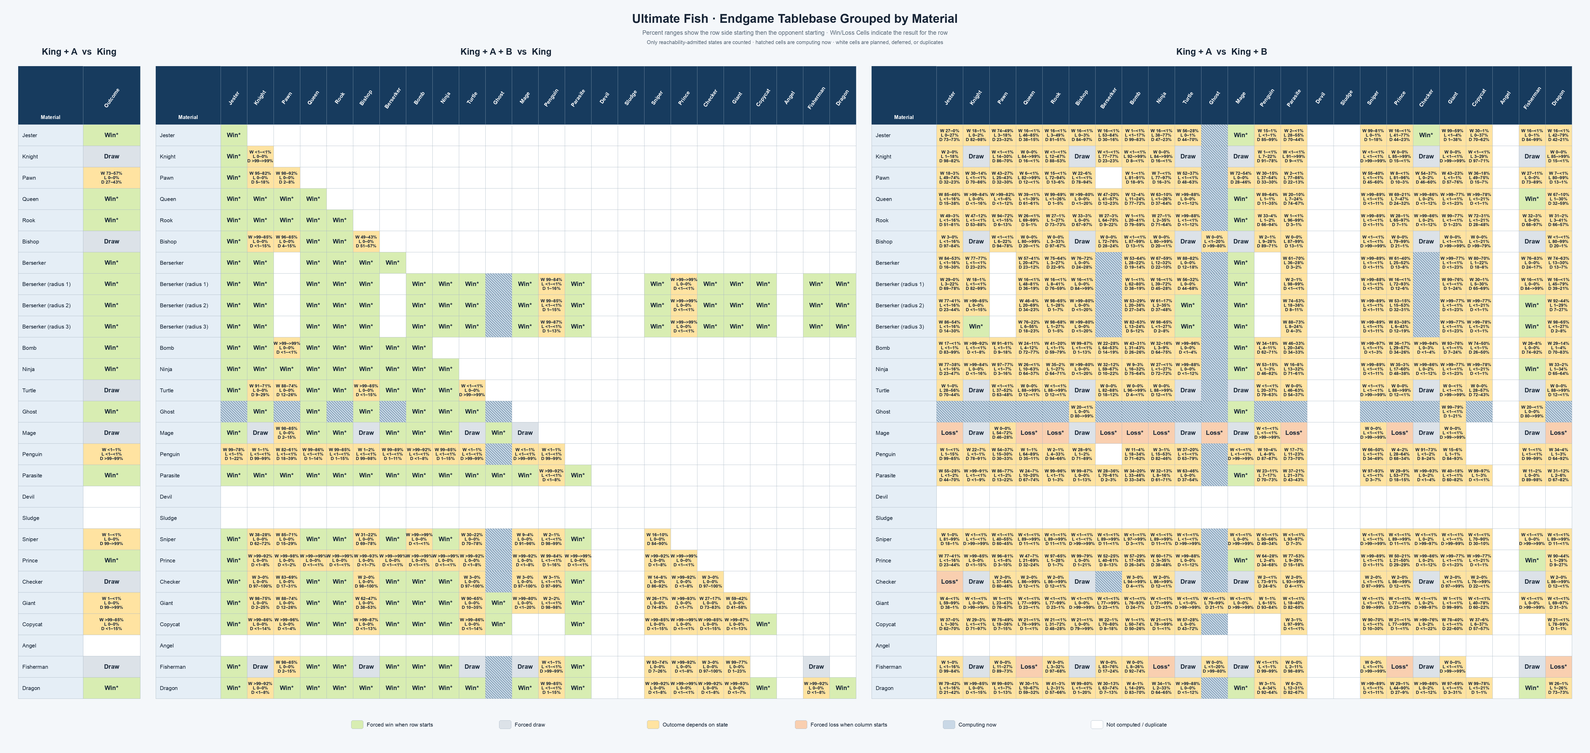
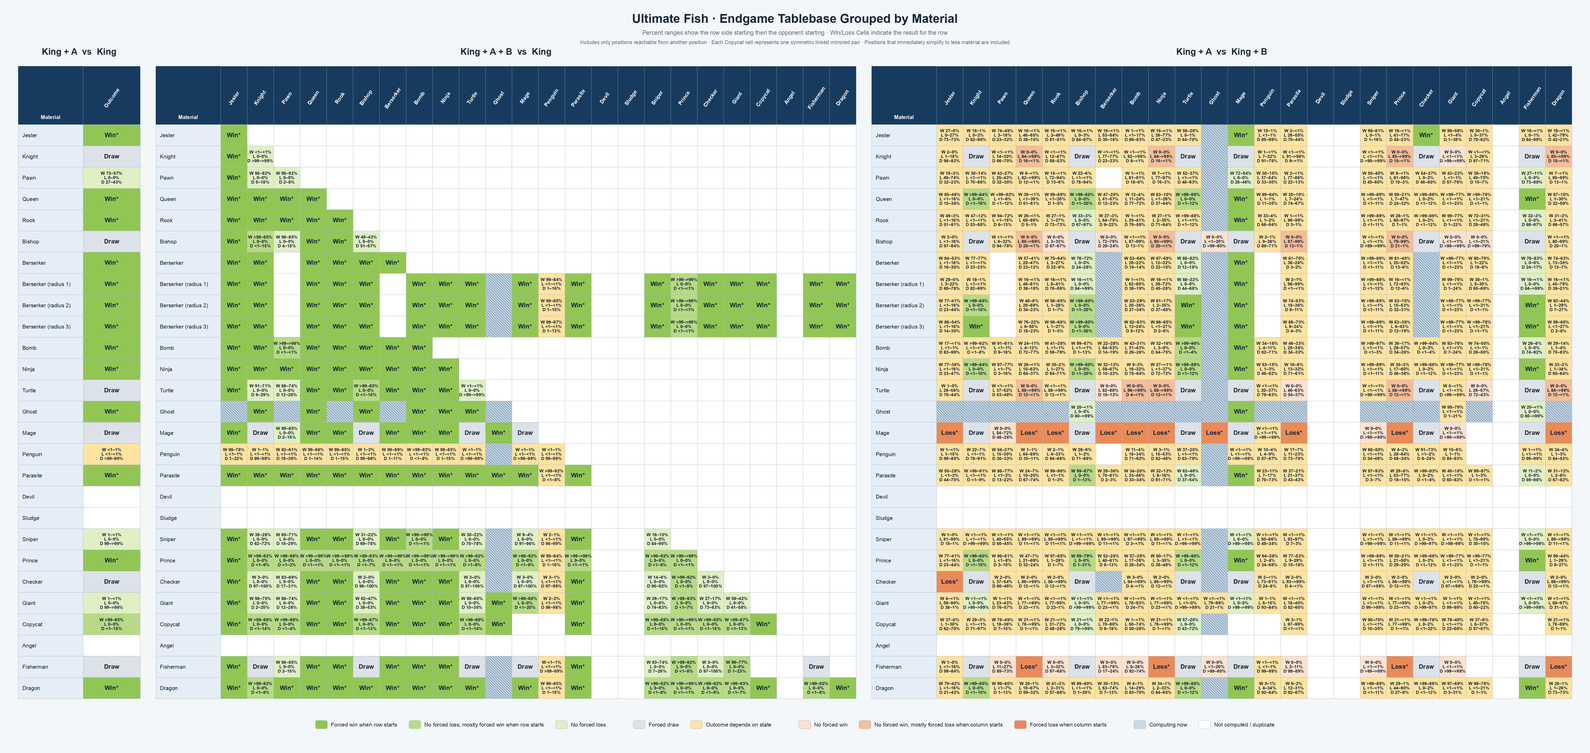
Prettier tablebase plot

diff --git a/tools/tablebases/plot_ultimate_tablebases.py b/tools/tablebases/plot_ultimate_tablebases.py
@@ -35,7 +35,8 @@ from plan_ultimate_tablebases import (  # noqa: E402
 )
 
 Kind = Literal[
-    "win_star", "draw", "mixed", "loss_star", "computing", "unknown",
+    "win_star", "win_mostly", "no_forced_loss", "draw", "mixed",
+    "no_forced_win", "loss_mostly", "loss_star", "computing", "unknown",
     "duplicate",
 ]
 
@@ -72,10 +73,14 @@ COLORS = {
     "header": "#173B5E",
     "row_header": "#E5EEF6",
     "grid": "#AAB8C5",
-    "win_star": "#D8EDB2",
+    "win_star": "#91C655",
+    "win_mostly": "#B8DA86",
+    "no_forced_loss": "#E0EFC4",
     "draw": "#DCE2E8",
     "mixed": "#FFE3A1",
-    "loss_star": "#F9CFB0",
+    "no_forced_win": "#FCE2CE",
+    "loss_mostly": "#F5BE98",
+    "loss_star": "#E98B58",
     "computing": "#C9D8E6",
     "unknown": "#FFFFFF",
     "duplicate": "#FFFFFF",
@@ -195,6 +200,19 @@ def classify(first: WDL, second: WDL, allow_loss: bool) -> Cell:
         return Cell("draw", first, second)
     if allow_loss and first.losses != first.total and second.losses == second.total:
         return Cell("loss_star", first, second)
+    # Keep the exact Win*/Loss* tiers visually distinct while highlighting
+    # near-forced outcomes that never cross into the opposite result.  Compare
+    # integer products so the 98.5% boundary is deterministic for large tables.
+    if (first.wins * 1000 >= first.total * 985 and
+            first.losses == 0 and second.losses == 0):
+        return Cell("win_mostly", first, second)
+    if (allow_loss and second.losses * 1000 >= second.total * 985 and
+            first.wins == 0 and second.wins == 0):
+        return Cell("loss_mostly", first, second)
+    if first.losses == 0 and second.losses == 0:
+        return Cell("no_forced_loss", first, second)
+    if allow_loss and first.wins == 0 and second.wins == 0:
+        return Cell("no_forced_win", first, second)
     return Cell("mixed", first, second)
 
 
@@ -405,6 +423,23 @@ def percentage(value: int, total: int) -> str:
     return f"{percent:.0f}"
 
 
+def legend_positions(
+    widths: list[int],
+    normal_gap: int,
+    group_gap: int,
+    group_starts: frozenset[int] = frozenset({3, 5, 8}),
+) -> tuple[list[int], int]:
+    """Place variable-width legend items with wider group boundaries."""
+    positions: list[int] = []
+    cursor = 0
+    for index, width in enumerate(widths):
+        if index:
+            cursor += group_gap if index in group_starts else normal_gap
+        positions.append(cursor)
+        cursor += width
+    return positions, cursor
+
+
 def cell_text(cell: Cell) -> str:
     if cell.kind in {"unknown", "duplicate", "computing"}:
         return ""
@@ -546,7 +581,14 @@ def draw_grid(
             text = cell_text(cell)
             if not text:
                 continue
-            selected_font = terminal_font if cell.kind != "mixed" else value_font
+            selected_font = (
+                value_font
+                if cell.kind in {
+                    "mixed", "win_mostly", "no_forced_loss",
+                    "no_forced_win", "loss_mostly",
+                }
+                else terminal_font
+            )
             draw.multiline_text(
                 (left + cell_width // 2, top + cell_height // 2),
                 text,
@@ -599,7 +641,7 @@ def render(readme: Path, radii: Path, output: Path, scale: int) -> None:
     )
     draw.text(
         (width // 2, 151 * scale),
-        "Only reachability-admitted states are counted · hatched cells are computing now · white cells are planned, deferred, or duplicates",
+        "Includes only positions reachable from another position · Each Copycat cell represents one symmetric linked mirrored pair · Positions that immediately simplify to less material are included",
         fill=COLORS["muted"],
         font=font(20 * scale),
         anchor="ma",
@@ -649,17 +691,29 @@ def render(readme: Path, radii: Path, output: Path, scale: int) -> None:
     legend_y = height - 126 * scale
     legend_items = (
         ("win_star", "Forced win when row starts"),
+        ("win_mostly", "No forced loss, mostly forced win when row starts"),
+        ("no_forced_loss", "No forced loss"),
         ("draw", "Forced draw"),
         ("mixed", "Outcome depends on state"),
+        ("no_forced_win", "No forced win"),
+        ("loss_mostly", "No forced win, mostly forced loss when column starts"),
         ("loss_star", "Forced loss when column starts"),
         ("computing", "Computing now"),
         ("unknown", "Not computed / duplicate"),
     )
     legend_font = font(21 * scale)
-    item_width = 570 * scale
-    legend_x = (width - item_width * len(legend_items)) // 2
+    item_widths = []
+    for _, label in legend_items:
+        bounds = draw.textbbox((0, 0), label, font=legend_font)
+        item_widths.append(60 * scale + bounds[2] - bounds[0])
+    positions, legend_width = legend_positions(
+        item_widths,
+        normal_gap=44 * scale,
+        group_gap=105 * scale,
+    )
+    legend_x = (width - legend_width) // 2
     for index, (kind, label) in enumerate(legend_items):
-        left = legend_x + index * item_width
+        left = legend_x + positions[index]
         draw.rounded_rectangle(
             (left, legend_y, left + 46 * scale, legend_y + 32 * scale),
             radius=6 * scale,

diff --git a/tests/tablebases/test_ultimate_tablebase_ledger.py b/tests/tablebases/test_ultimate_tablebase_ledger.py
@@ -187,6 +187,74 @@ class UltimateTablebaseLedgerTests(unittest.TestCase):
         self.assertEqual("mixed", plot.OutcomeCatalog(summary).opposed(
             "berserker", "ninja").kind)
 
+    def test_near_forced_outcomes_keep_wld_breakdown_and_lighter_color(self):
+        catalog = plot.OutcomeCatalog(plot.read_summary(ledger.README))
+
+        prince = catalog.opposed("prince", "bishop")
+        self.assertEqual("win_mostly", prince.kind)
+        self.assertEqual(0, prince.first.losses)
+        self.assertEqual(0, prince.second.losses)
+        self.assertGreaterEqual(
+            prince.first.wins * 1000, prince.first.total * 985)
+        self.assertTrue(plot.cell_text(prince).startswith("W 99–79%\nL 0–0%"))
+
+        bishop = catalog.opposed("bishop", "prince")
+        self.assertEqual("loss_mostly", bishop.kind)
+        self.assertEqual(0, bishop.first.wins)
+        self.assertEqual(0, bishop.second.wins)
+        self.assertGreaterEqual(
+            bishop.second.losses * 1000, bishop.second.total * 985)
+        self.assertTrue(plot.cell_text(bishop).startswith("W 0–0%\nL 79–99%"))
+
+        self.assertEqual("#B8DA86", plot.COLORS["win_mostly"])
+        self.assertEqual("#F5BE98", plot.COLORS["loss_mostly"])
+        self.assertNotEqual(
+            plot.COLORS["win_star"], plot.COLORS["win_mostly"])
+        self.assertNotEqual(
+            plot.COLORS["loss_star"], plot.COLORS["loss_mostly"])
+
+    def test_near_forced_highlight_requires_no_opposite_outcome(self):
+        almost = plot.WDL(985, 0, 15)
+        no_loss = plot.WDL(700, 0, 300)
+        self.assertEqual("win_mostly", plot.classify(
+            almost, no_loss, allow_loss=True).kind)
+        self.assertEqual("mixed", plot.classify(
+            plot.WDL(985, 1, 14), no_loss, allow_loss=True).kind)
+
+        almost_loss = plot.WDL(0, 985, 15)
+        no_win = plot.WDL(0, 700, 300)
+        self.assertEqual("loss_mostly", plot.classify(
+            no_win, almost_loss, allow_loss=True).kind)
+        self.assertEqual("mixed", plot.classify(
+            no_win, plot.WDL(1, 985, 14), allow_loss=True).kind)
+
+        below_threshold = plot.WDL(984, 0, 16)
+        self.assertEqual("no_forced_loss", plot.classify(
+            below_threshold, no_loss, allow_loss=True).kind)
+        self.assertEqual("no_forced_win", plot.classify(
+            no_win, plot.WDL(0, 984, 16), allow_loss=True).kind)
+
+        self.assertEqual("#E0EFC4", plot.COLORS["no_forced_loss"])
+        self.assertEqual("#FCE2CE", plot.COLORS["no_forced_win"])
+        self.assertEqual(6, len({
+            plot.COLORS[kind] for kind in (
+                "win_star", "win_mostly", "no_forced_loss",
+                "no_forced_win", "loss_mostly", "loss_star",
+            )
+        }))
+
+    def test_legend_spacing_tracks_text_width_and_outcome_groups(self):
+        widths = [71, 190, 83, 97, 151, 88, 203, 129, 101, 144]
+        positions, total = plot.legend_positions(
+            widths, normal_gap=44, group_gap=105)
+        gaps = [
+            positions[index + 1] - positions[index] - widths[index]
+            for index in range(len(widths) - 1)
+        ]
+        self.assertEqual(
+            [44, 44, 105, 44, 105, 44, 44, 105, 44], gaps)
+        self.assertEqual(positions[-1] + widths[-1], total)
+
     def test_berserker_sniper_uses_admitted_not_omitted_counts(self):
         row = next(
             item for item in ledger.entries(ledger.README.read_text())

diff --git a/src/ultimate/tablebases/ghost_extra_information_tablebase.cpp b/src/ultimate/tablebases/ghost_extra_information_tablebase.cpp
@@ -3427,6 +3427,40 @@ class PromotedQueenRobddImport {
       "cannot determine physical memory for exact external solve gate");
 }
 
+[[nodiscard]] std::uint64_t cgroup_memory_limit_bytes(
+  std::uint64_t physicalBytes) {
+#ifdef __linux__
+    std::ifstream membership("/proc/self/cgroup");
+    std::string line;
+    while (std::getline(membership, line)) {
+        const std::size_t separator = line.find("::");
+        if (separator == std::string::npos)
+            continue;
+        std::string path = line.substr(separator + 2);
+        if (path.empty() || path.front() != '/')
+            continue;
+        const std::string base = "/sys/fs/cgroup" + path;
+        for (const char* name : {"memory.max", "memory.high"}) {
+            std::ifstream input(base + "/" + name);
+            std::string value;
+            if (!std::getline(input, value) || value == "max")
+                continue;
+            try {
+                const std::uint64_t limit = std::stoull(value);
+                if (limit)
+                    physicalBytes = std::min(physicalBytes, limit);
+            }
+            catch (const std::exception&) {
+                throw std::runtime_error(
+                  std::string("invalid cgroup memory limit in ") + name);
+            }
+        }
+        break;
+    }
+#endif
+    return physicalBytes;
+}
+
 void gate_external_ghost_extra_solve(
   const std::string& transitionPrefix,
   const ExternalTransitionDatabase& database,
@@ -3501,8 +3535,9 @@ void gate_external_ghost_extra_solve(
     const std::uint64_t residentBytes = std::max(
       ordinaryResident, std::max(markResident, copyResident));
     const std::uint64_t physicalBytes = physical_memory_bytes();
-    const std::uint64_t residentLimit = std::min<std::uint64_t>(
-      12ULL << 30, physicalBytes * 7 / 10);
+    const std::uint64_t cgroupBytes =
+      cgroup_memory_limit_bytes(physicalBytes);
+    const std::uint64_t residentLimit = cgroupBytes * 7 / 10;
     if (residentBytes > residentLimit)
         throw std::runtime_error(
           "exact external Ghost-extra solve exceeds the physical-memory gate");
@@ -3517,7 +3552,8 @@ void gate_external_ghost_extra_solve(
               << " available_bytes " << available
               << " budget_bytes " << Budget << " admitted 1\n" << std::flush;
     std::cout << "ghost_extra_external_memory_gate physical_bytes "
-              << physicalBytes << " resident_limit_bytes " << residentLimit
+              << physicalBytes << " cgroup_bytes " << cgroupBytes
+              << " resident_limit_bytes " << residentLimit
               << " ordinary_resident_bytes " << ordinaryResident
               << " compaction_mark_resident_bytes " << markResident
               << " compaction_copy_resident_bytes " << copyResident

diff --git a/tools/tablebases/run_ultimate_ghost_ordinary_aws.py b/tools/tablebases/run_ultimate_ghost_ordinary_aws.py
@@ -151,6 +151,10 @@ def main() -> None:
     parser.add_argument("--lower-ghost-model-sha256", required=True)
     parser.add_argument("--lower-ghost-observation-sha256", required=True)
     parser.add_argument("--parallelism", type=int, default=20)
+    parser.add_argument("--prebuilt-executable", type=Path,
+                        help=("use one SHA-pinned executable for transition "
+                              "generation, merge, and solve"))
+    parser.add_argument("--prebuilt-executable-sha256", default="")
     parser.add_argument("--solve-max-nodes", type=int, default=500_000_000,
                         help="exact ROBDD node budget for solve-only retries")
     parser.add_argument("--transitions-only", action="store_true",
@@ -175,6 +179,14 @@ def main() -> None:
         raise RuntimeError("solve mode requires --lower-ghost-sidecar")
     if args.solve_max_nodes < 500_000_000:
         raise RuntimeError("solve ROBDD node budget may not shrink below baseline")
+    if ((args.prebuilt_executable is None) !=
+            (not args.prebuilt_executable_sha256)):
+        raise RuntimeError(
+            "prebuilt executable and SHA-256 must be supplied together")
+    if args.prebuilt_executable is not None:
+        require_sha(args.prebuilt_executable,
+                    args.prebuilt_executable_sha256,
+                    "prebuilt executable")
 
     if args.finalize_existing:
         work = args.work.resolve(strict=True)
@@ -336,7 +348,13 @@ def main() -> None:
         definitions.append("-DULTIMATE_GHOST_ORDINARY_LOWER_DRAW_ONLY")
     build[-len(sources)-2:-len(sources)-2] = definitions
     if not args.solve_existing:
-        run(build, root, work / "work/logs/build.log")
+        if args.prebuilt_executable is None:
+            run(build, root, work / "work/logs/build.log")
+        else:
+            shutil.copyfile(args.prebuilt_executable, executable)
+            executable.chmod(0o755)
+            require_sha(executable, args.prebuilt_executable_sha256,
+                        "copied prebuilt executable")
     binding = [
         "--orientation", args.orientation,
         "--lower-dragon-table", ("implicit-draw" if implicit_lower

diff --git a/src/ultimate/tablebases/ghost_dragon_information_solver.cpp b/src/ultimate/tablebases/ghost_dragon_information_solver.cpp
@@ -709,9 +709,15 @@ DragonPatchCertificate rewrite_lower_dragon_edges(
             if (position.game_over())
                 continue;
             const std::vector<Move> moves = position.legal_moves();
-            if (moves.size() != offsets[ghost + 1] - offsets[ghost])
+            const std::size_t compiledMoves =
+              offsets[ghost + 1] - offsets[ghost];
+            if (moves.size() != compiledMoves)
                 throw std::runtime_error(
-                  "Dragon transition patch move-count residual");
+                  "Dragon transition patch move-count residual geometry " +
+                  std::to_string(geometryId) + " ghost " +
+                  std::to_string(ghost) + " legal " +
+                  std::to_string(moves.size()) + " compiled " +
+                  std::to_string(compiledMoves) + " upn " + position.upn());
             for (std::size_t ordinal = 0; ordinal < moves.size(); ++ordinal) {
                 Position child = position;
                 Undo undo;

diff --git a/tablebases/README.md b/tablebases/README.md
@@ -116,16 +116,16 @@ generated exclusively from the canonical ledger below by
 > `transitions-ready.json` binding before starting a 1-billion-node
 > `--solve-existing`.  The deployed source archive is
 > sha256:c01f874b0ad5420b3f11ff3592399bb1f5558a01df563448d4d59b0293ca8657,
-> S3 VersionId `CyM9nmyoZWXGGjjUl1rnm4UJfs8omQjD`.  At the 2026-08-17 19:52 UTC
+> S3 VersionId `CyM9nmyoZWXGGjjUl1rnm4UJfs8omQjD`.  At the 2026-08-18 03:32 UTC
 > supervision snapshot, opposed Knight, opposed Turtle, opposed Copycat, and
-> same Dragon had each verified 64/64 fresh shards and were merging their
-> corrected graphs.  Same Prince had verified 17/64, opposed Prince 24/64,
-> and same Checker 12/64.  No fresh `transitions-ready.json` existed yet, so
-> every promoter remained correctly fail-closed; reaching 64/64 is not by
-> itself sufficient to start a solve.  The exact-PID same-Berserker/Ghost
-> merge remained a live 99.7%-CPU child of its original wrapper in the same
-> systemd cgroup.  Failed graphs, witnesses, and startup logs remain
-> preserved, and none is eligible for certification.
+> same Dragon had each completed the fresh transition service successfully and
+> written an exact `transitions-ready.json`; their class rows below record the
+> solve state and marker binding.  Same Prince, opposed Prince, and same Checker
+> remain active fresh transition rebuilds with fail-closed promoters.  The
+> exact-PID same-Berserker/Ghost merge remains a live 99.7%-CPU PID 519977 child
+> of wrapper PID 428088 in the same systemd cgroup, with no readiness marker
+> yet.  Failed graphs, witnesses, startup logs, and stopped partial restores
+> remain preserved, and none is eligible for certification.
 >
 > **Current corrected-substate status (2026-08-17):** the same two-Berserker
 > concrete table is now certified and version-pinned in S3. Both corrected
@@ -420,8 +420,8 @@ Ledger totals: **410 certified**, **0 preserving**, **30 computing**, **34 exact
 | `same:ghost+devil` | King+Ghost+Devil vs King | same | — | **DEFERRED** | — | concrete | — | — | — | — |
 | `same:ghost+sludge` | King+Ghost+Sludge vs King | same | — | **DEFERRED** | — | concrete | — | — | — | — |
 | `same:ghost+sniper` | King+Ghost+Sniper vs King | same | `kghostsniperk.uftb` | **COMPUTING** | 303,663,360 | information required | — | — | — | The post-substate-correction graph completed all 64 shards and its authenticated merge over 3,943,680 geometries under source sha256:b627e286865f3081805a8a81ab8ec4ec8938c8a8486f3df8a0ae6a3edc4a12f1 and model sha256:37ce97c6639e74eb2d8caf9843abed7bee8a3cb3937ad5383e582046c2183b0d. Solve-only unit `ultimatefish-info-substate-v1-kghostsniperk-solve-1b-v1` is active on i0b CPU 2 with a 1,000,000,000-node bound and 48/56 GiB memory gates. No pre-correction graph or checkpoint is reused. |
-| `same:ghost+prince` | King+Ghost+Prince vs King | same | `kghostprincek.uftb` | **COMPUTING** | 151,831,680 | information required | — | — | — | The retained failed solve produced singleton residual 6,191,376; all first 20 exact witnesses were unreachable adjacent-real-King padding states, beginning with White King a1, Black King b1, Prince d1, and visible Ghost c1. No old output is certified or deleted. Fresh unit `ultimatefish-info-singleton-fix-v1-kghostprincek-transitions` is active on eight i0b CPUs from empty work under source sha256:bd77080a64813a7ba4ef9bfeedde322409295944012417e2a7376689cf1cf9b8, corrected model sha256:3fc5612e277bfe1469999746d5c97a573252dd0785237a3cf3b383093c496086, and observation sha256:890c399d6856fbf1773766f1840d0c38e46669c18b609e20c38d2750a09dbc23. Its installed promoter will solve only after the fresh graph reports success and passes its exact marker gate. |
-| `same:ghost+checker` | King+Ghost+Checker vs King | same | `kghostcheckerk.uftb` | **COMPUTING** | 303,663,360 | information required | — | — | — | The first clean replacement fixed the persistent Checker substate but still used the old over-broad singleton verifier; it had produced no verified shard when superseded. After the fresh replacement passed its exhaustive codec/source self-test and began compiling, the old service was stopped with all 459 partial-work files preserved. New unit `ultimatefish-info-singleton-fix-v1-kghostcheckerk-transitions` is active on ten i098 CPUs from empty work under source sha256:fdd9329ed29fb7823b27e4bd46263b62f6ac66e638b510e232b3ee386ca6be1e, singleton-domain-corrected model sha256:273bfaf1940ddb3fd52893ae7d23b5b758cb7bab12877c0cebf41c95a83627fa, implicit lower theorem sha256:0dcb4039ec2305298e9f35d36ce8d0e54fe76acc013c188d08e0e2a6da0ef22c/model sha256:42566cc6e4186de2f29a2ded6e9a0728e8dc6d7e748d936e574f15f5202c1763, and the standard observation/Ghost bindings. Its exact concrete input was restored by S3 VersionId `Im5vjnfYtOCOFhj1impuwwzZKdmZoVQG` and rehashed locally; its fail-closed promoter permits only the fresh exact marker and graph. |
+| `same:ghost+prince` | King+Ghost+Prince vs King | same | `kghostprincek.uftb` | **COMPUTING** | 151,831,680 | information required | — | — | — | The retained failed solve produced singleton residual 6,191,376; all first 20 exact witnesses were unreachable adjacent-real-King padding states. The first corrected promoter had already patched its merged graph in place before stopping, and a later remerge attempt was quarantined before it could truncate hardlinked retained shards. No shard, graph, or output from either prior tree is eligible for reuse or deleted. Unit `ultimatefish-info-singleton-fix-v1-kghostkprince-fresh-v6` completed all 64 transition shards in a completely independent tree and is merging the expected 985,920 geometries on i08 CPUs 0-7 with 48/56-GiB gates under source sha256:2858daf3770e0a47230f2d0bf410cd8ce4a9820b0c7cd0895ceab242ae42f65f, corrected model sha256:a9c480c453ddeb72085a43483dc60484ec24ca017fd365ed60a7c8f3973d8834, lower Prince sha256:7bce11ab717f49e1e2b6e1e0844825139382fe324b2ad88a59b5fc027ba0e6c0/model sha256:5511ac5ac166fd2be042e66a4c849e034fef39da317988f40bf4e6b47e071927, and observation sha256:890c399d6856fbf1773766f1840d0c38e46669c18b609e20c38d2750a09dbc23. Only an exact fresh marker match may promote the cgroup-aware 1-billion-node `--solve-existing` phase. Independent-tree wrapper sha256:6dfd2ba81498d0e68475b2f06f495c960a5ac0562a81e4daf941c6d14418f1ca is S3 VersionId `y_t11srOSSuHXdqwip1puSgP2SByqs9o`; all failed trees remain retained as evidence. |
+| `same:ghost+checker` | King+Ghost+Checker vs King | same | `kghostcheckerk.uftb` | **COMPUTING** | 303,663,360 | information required | — | — | — | The completely independent fresh-v5 build authenticated all 64 shards and wrote marker sha256:17c42b10197c10bca52bab3bf92991625b69c7cfcf2942b1b310af2f9a24fb3a over 3,943,680 geometries, binding source sha256:fdd9329ed29fb7823b27e4bd46263b62f6ac66e638b510e232b3ee386ca6be1e, model sha256:273bfaf1940ddb3fd52893ae7d23b5b758cb7bab12877c0cebf41c95a83627fa, implicit lower theorem sha256:0dcb4039ec2305298e9f35d36ce8d0e54fe76acc013c188d08e0e2a6da0ef22c/model sha256:42566cc6e4186de2f29a2ded6e9a0728e8dc6d7e748d936e574f15f5202c1763, and observation sha256:890c399d6856fbf1773766f1840d0c38e46669c18b609e20c38d2750a09dbc23. The later cgroup rebuild had accidentally omitted `ULTIMATE_GHOST_EXTRA_IS_CHECKER`; that exact compile-command bug explains both the six-versus-seven move witness at geometry 674/Ghost d1 and v8's independent self-test failure (`extra-substate child regression lacks a same-class witness`). All v5/v6/v8 graphs and trees are retained only as non-certifying evidence and are never reused. Active recovery `ultimatefish-info-singleton-fix-v1-kghostcheckerk-coherent-fresh-v9` on i098 CPUs 0-9 with 30/32-GiB gates uses corrected executable sha256:2231eede939e3002f86562da2d2902877c252a28675d0ad2c0e87d6e69a24e8a, compiled with the Checker macro, for self-test, every fresh shard, merge, and solve. The runner's prebuilt-executable gate prevents compilation drift across all phases; runner sha256:5c34d80cf99903df5a02e108e39b21c0f85a84919e37517b6a0875db1364a849 is S3 VersionId `_gTRUYZc1pjBjoMz1sjtc7hFXW1g_Sdj`, and v9 wrapper sha256:3f9e800545c822cd40903da67cdf03d2d31de2177ac531ea20d9593b981ecf80 is S3 VersionId `nZyUZdbRcSDRK19lgqbRyTRnQFuehvZv`. V7 stopped before creating a work tree because its patched source fingerprint did not match the certified model binding. Witness diagnostic source sha256:b76ab62e327a868cdfa741148207e931ff1e4c726e0cdd74d2aaa0539f21915d is S3 VersionId `iw_zy8p_OYNw50nJ7zHY9Bo66y8CU6ef`; all failed evidence remains retained. |
 | `same:ghost+giant` | King+Ghost+Giant vs King | same | `kghostgiantk.uftb` | **CERTIFIED** | 75,915,840 | information v2 | 19,660,036 (6,913,364) / 0 / 0 (11,384,520) | 0 (2,284,232) / 22,395,792 (210,664) / 842,184 (12,225,048) | 19,660,036 / 18,297,884; 23,237,976 / 14,719,944 | Exact specialized 35-iteration solve with all 53,146,800 singleton checks and Bellman, monotonicity, compaction-root, grouping, conservation, structural, and source-remap residuals zero. UFIW sha256:efdac7b79a43d11afd1b519d93a50b02f69a31299fa0119efc8b9238dd638659; arbitrary UFGD sha256:a56cd228f4f8bf4b50736d88f2ae838646272bbb543002c9095efebbe09de077; normalized source sha256:d9cfde27ba5eb9e4462112ab2340a20f55ba22013e59c6bb8233509130326338. Authenticated 70-artifact S3 archive sha256:9cd4580ac47f4c1c9ac6441b6e8a584a91d61812243e58295843218819f6838d VersionId `8EtVjGwuFeV6bB5Pe09HAn6Bj6nMbcNo`; certificate sha256:079c4f2c901c41dc700d9aa39dd66590c27ce1e9e23131f7467a5e801077e1bf VersionId `PcRlbR7cxaewp27boYi2fZoqSrrrbpAW`; local archive, S3 HEAD/download, certificate download, and fresh restore residuals zero. |
 | `same:ghost+copycat` | King+Ghost+Copycat vs King | same | `kcopycatghostk.uftb` | **CERTIFIED** | 151,831,680 | information v2 | 54,255,312 (18,777,648) / 0 / 0 (2,882,880) | 0 (6,197,952) / 63,968,352 (2,855,376) / 10,464 (2,883,696) | 54,255,312 / 21,660,528; 63,978,816 / 11,937,024 | Audit found that the prior completed solve lacked an observation binding and used obsolete model sha256:b913b77e1c1d3e9ad6b447ea65bb0f2ecdcb3eaf49f15b5b3b0ff29e529cfb80. Its manifest, solve log, information output, and arbitrary sidecar remain hash-preserved under `evidence/pre-observation-bound-solve-20260816T0355Z/`; neither that graph nor its output is reused. Exact source sha256:7f0f6bca64fba3957f7fd0d5e7bdfb7e182495ea9b2577748f7fde969d3f8ff3 is version-pinned as S3 VersionId `doTAFsX1xDEYUjndwKcLAQz_G89HVahB`. The fresh corrected graph authenticated 64/64 shards, 492,960 geometries, 519,411,752 edges, and 337,052 strata with zero gap, offset, byte, and conservation residuals under model sha256:5f90a906211ad3d5d84c0be29d59254ed31294638a44ea5b25c561f3fbc99ed4 and observation sha256:890c399d6856fbf1773766f1840d0c38e46669c18b609e20c38d2750a09dbc23. Its exact solve completed 20 iterations and admitted 118,234,128 roots with zero Bellman, rank, monotonicity, singleton, compaction-root, grouping, conservation, dual-force, structural, source-remap, and transition residuals; output sha256:cf2df8ee30e54b18cb5ffe018f0fa630545e71ff7081d844b50a2c5422a4f5f4 and arbitrary sidecar sha256:2167b83265d8a15363d2c8cd3d52d2bfec9a7f9ac02dd1473893ca9e8fba367e. The first successful v2 manifest omitted its CLI-supplied observation and lower-Ghost bindings, so it is retained as evidence rather than certified. Tested manifest-only runner sha256:ee805e9dc7f9c24c36b9dbd8cab172eed5dc9af574e75fc3df69b8acb1e29d44 (S3 VersionId `U644TE55NBsZembDSP3Fo0Ggs0pxzZHl`) regenerated manifest sha256:47b1c70629d1f7e9c2afff31a817f28c614fd155bf1a2bdb66287339cafa358f over the untouched outputs, explicitly binding the source/model/observation, lower Copycat sha256:98dbd354da959fa923ed9b712c1bde7147f2039a9bcf50306cbdc2a9b3098aeb/model sha256:d94883c4fd100918a23947c3c71d5e461588778aefbbe037f260d48d5083095f, and lower Ghost sha256:472721217166c8270aa8b68f19645f97cbb84084096f197364289e9d1a7588cb/source sha256:11b7b57aa9819b1fb9ac3f7bd273ab73cfa3627fb09a855856ae1426af2c0ba5/model sha256:ec6ed34ab80733ee06354675b9bf0ea9e190c927583ba586fe94f4026afdf9c5/observation sha256:890c399d6856fbf1773766f1840d0c38e46669c18b609e20c38d2750a09dbc23. The 30,998,457-byte S3 information archive is sha256:3baf8f10da88c96b4e1c88bf5c1bf545207b98570c25a33b7bfe2a29e1a388c7, VersionId `lUcrnP2McNdCU8l0aCdt1axTSzojdcTn`; certificate sha256:d0543f016cd02302941afaac9f07ed886b863b3680cf2441f17d2fb264005bea, VersionId `R.WJO9ZQOLVoW0RA_WnrSw4qORczD1bp`. Pinned-version download, archive restore, head, and full-hash residuals are zero across 70 artifacts; the deletion gate remains false, all source evidence remains retained, and no pre-fix graph or checkpoint was reused. |
 | `same:ghost+angel` | King+Ghost+Angel vs King | same | — | **DEFERRED** | — | concrete | — | — | — | — |
@@ -551,7 +551,7 @@ Ledger totals: **410 certified**, **0 preserving**, **30 computing**, **34 exact
 | `opposed:knight+bomb` | King+Knight vs King+Bomb | opposed | `kknightkbomb.uftb` | **CERTIFIED** | 37,957,920 | concrete | 264 (2,903,040) / 14,748,000 (62,768) / 1,264,888 | 15,062,940 (3,846,020) / 52 / 69,944 (4) | 16,013,152 / 2,965,808; 15,132,936 / 3,846,024 | S3 legacy archive sha256:e296deebc6d0f4ef2c53e14eab86fd1c2bbc9954a6051ffca5ce7b9623b08263 VersionId YTpSbC_DShKsF8QwShKRSIBUVf8PH0VJ; preservation certificate sha256:1232600dfdc1be8be002701245e6523bfde8334dd4594c8241429a88b5cd825d VersionId 5hp3sJXKSZLcNwkzKEcs8AXrYuGea3RY; reachability v2 sha256:52887f4e29eab71e92dd0aaec2019f4a5a3f59b8010ad4d4de7f0816559f889a VersionId dnNKI2aUC80gBjlcQWpvjNLGrcmH0fen |
 | `opposed:knight+ninja` | King+Knight vs King+Ninja | opposed | `kknightkninja.uftb` | **CERTIFIED** | 37,957,920 | concrete | 0 (2,808,960) / 13,522,364 / 2,647,636 | 13,657,124 (5,259,100) / 0 / 62,736 | 16,170,000 / 2,808,960; 13,719,860 / 5,259,100 | S3 legacy archive sha256:e296deebc6d0f4ef2c53e14eab86fd1c2bbc9954a6051ffca5ce7b9623b08263 VersionId YTpSbC_DShKsF8QwShKRSIBUVf8PH0VJ; preservation certificate sha256:1232600dfdc1be8be002701245e6523bfde8334dd4594c8241429a88b5cd825d VersionId 5hp3sJXKSZLcNwkzKEcs8AXrYuGea3RY; reachability v2 sha256:52887f4e29eab71e92dd0aaec2019f4a5a3f59b8010ad4d4de7f0816559f889a VersionId dnNKI2aUC80gBjlcQWpvjNLGrcmH0fen |
 | `opposed:knight+turtle` | King+Knight vs King+Turtle | opposed | — | **DRAW** | — | insufficient material | 0 / 0 / 1 | 0 / 0 / 1 | closed-form draw | — |
-| `opposed:knight+ghost` | King+Knight vs King+Ghost | opposed | `kknightkghost.uftb` | **COMPUTING** | 75,915,840 | information required | — | — | — | The earlier ledger claim was stale: no Knight transition service was running. Fresh replacement `ultimatefish-info-singleton-fix-v1-kknightkghost-transitions` is now active on 16 i03 CPUs from an empty work tree on the 462-GiB-free secondary volume. It binds concrete sha256:a17f58aa7908646af328963ae8023072f5b0f05e61cef8d4d4a6c502d2684250, implicit-draw lower theorem sha256:807693ac2c310cbe04547d4d8244794a7c5aa72e664f8cb16e74134f34d7118c, corrected model sha256:f0fbd3ca607d64f96fb6f90beb2c87ea33d900c42dfb0c9bfdf49f5d903ede94, and the standard destination observation. Its self-test passed and its fail-closed solve promoter is active. |
+| `opposed:knight+ghost` | King+Knight vs King+Ghost | opposed | `kknightkghost.uftb` | **COMPUTING** | 75,915,840 | information required | — | — | — | The singleton-domain-corrected transition rebuild completed successfully over all 492,960 geometries and wrote exact marker sha256:61cdcf4ffb413e5438be8e4ed5fabffe72ab0efa36640abc05b5f3a1e0b288fc. It binds concrete sha256:a17f58aa7908646af328963ae8023072f5b0f05e61cef8d4d4a6c502d2684250, implicit-draw lower theorem sha256:807693ac2c310cbe04547d4d8244794a7c5aa72e664f8cb16e74134f34d7118c, corrected model sha256:f0fbd3ca607d64f96fb6f90beb2c87ea33d900c42dfb0c9bfdf49f5d903ede94, and observation sha256:890c399d6856fbf1773766f1840d0c38e46669c18b609e20c38d2750a09dbc23. The prior high-memory v4 solve reloaded and verified that fresh graph for 2h35m, then failed closed at a hard-coded 12-GiB admission cap rather than an allocation failure. A cgroup-aware, non-semantic gate patch sha256:56f47df77a2fa2c5c00e6fd3f6a038974ad5d5f4d3935fb4a5ebbf89df578ec2 is preserved in S3 VersionId `dtVQ3MhoPP2PviJ4L6H2vkOiDH8UuhZO`; the fresh transition model binding remains unchanged. Exact 1-billion-node `--solve-existing` unit `ultimatefish-info-singleton-fix-v1-kknightkghost-solve-1b-highmem-v7` is active on i03 CPU 21 from a new graph tree and fresh Bellman scratch with patched executable sha256:1e74036139100da08c1fcd7d0dda43b3787508cc1019ee4203b76d53445c0473 and 170/190-GiB cgroup gates. Its hash-pinned wrapper is S3 VersionId `sFc6qE6x8AKuY9gXx3bYGfzb3sgmwMHM`. All startup-only failures and old graph evidence remain preserved; no obsolete graph or failed solve scratch is reused. |
 | `opposed:knight+mage` | King+Knight vs King+Mage | opposed | — | **DRAW** | — | insufficient material | 0 / 0 / 1 | 0 / 0 / 1 | closed-form draw | — |
 | `opposed:knight+penguin` | King+Knight vs King+Penguin | opposed | `kknightkpenguin.uftb` | **CERTIFIED** | 303,663,360 | concrete | 254,522 (3,313,768) / 1,521,148 / 19,105,178 (127,637,064) | 4,862,070 (1,941,024) / 95,978 (228) / 17,229,532 (127,702,848) | 20,880,848 / 130,950,832; 22,187,580 / 129,644,100 | S3 table sha256:cd1d0742be656efb3fc4ae231e80439025d8420ea1579840b790246a81668ac6 VersionId YNEg1baHbFa4qyjy4IoeyYwmNKVhRaUq; certificate sha256:a4e1f45eb6d8742cf5efac9bc54cafac52efd7c1ab7e0a528e9cd5d43220d1a9 VersionId CJn6p5QSw2QOlZk4qPcHFqAtO5emORvm; reachability sha256:8b98b3d85f06d2b0a16ca0610c31522b83ea07a10209a598b09d1a92fc9090de VersionId BPU9ASvKEIBCd7CXYoy3Wz_3dbs7q1Sw |
 | `opposed:knight+parasite` | King+Knight vs King+Parasite | opposed | `kknightkparasite.uftb` | **CERTIFIED** | 37,957,920 | concrete | 20 (2,808,960) / 14,791,096 / 1,378,884 | 15,817,696 (3,093,244) / 4 / 68,016 | 16,170,000 / 2,808,960; 15,885,716 / 3,093,244 | S3 legacy archive sha256:e296deebc6d0f4ef2c53e14eab86fd1c2bbc9954a6051ffca5ce7b9623b08263 VersionId YTpSbC_DShKsF8QwShKRSIBUVf8PH0VJ; preservation certificate sha256:1232600dfdc1be8be002701245e6523bfde8334dd4594c8241429a88b5cd825d VersionId 5hp3sJXKSZLcNwkzKEcs8AXrYuGea3RY; reachability v2 sha256:52887f4e29eab71e92dd0aaec2019f4a5a3f59b8010ad4d4de7f0816559f889a VersionId dnNKI2aUC80gBjlcQWpvjNLGrcmH0fen |
@@ -699,7 +699,7 @@ Ledger totals: **410 certified**, **0 preserving**, **30 computing**, **34 exact
 | `opposed:ninja+fisherman` | King+Ninja vs King+Fisherman | opposed | `kninjakfisherman.uftb` | **CERTIFIED** | 37,957,920 | concrete | 13,719,860 (5,259,100) / 0 / 0 | 0 (1,609,608) / 15,953,476 / 1,415,876 | 13,719,860 / 5,259,100; 17,369,352 / 1,609,608 | S3 legacy archive sha256:e296deebc6d0f4ef2c53e14eab86fd1c2bbc9954a6051ffca5ce7b9623b08263 VersionId YTpSbC_DShKsF8QwShKRSIBUVf8PH0VJ; preservation certificate sha256:1232600dfdc1be8be002701245e6523bfde8334dd4594c8241429a88b5cd825d VersionId 5hp3sJXKSZLcNwkzKEcs8AXrYuGea3RY; reachability v2 sha256:52887f4e29eab71e92dd0aaec2019f4a5a3f59b8010ad4d4de7f0816559f889a VersionId dnNKI2aUC80gBjlcQWpvjNLGrcmH0fen |
 | `opposed:ninja+dragon` | King+Ninja vs King+Dragon | opposed | `kninjakdragon.uftb` | **CERTIFIED** | 37,957,920 | concrete | 4,589,520 (5,259,100) / 186,156 / 8,944,184 | 4,806,436 (4,893,140) / 276,566 / 9,002,818 | 13,719,860 / 5,259,100; 14,085,820 / 4,893,140 | S3 legacy archive sha256:e296deebc6d0f4ef2c53e14eab86fd1c2bbc9954a6051ffca5ce7b9623b08263 VersionId YTpSbC_DShKsF8QwShKRSIBUVf8PH0VJ; preservation certificate sha256:1232600dfdc1be8be002701245e6523bfde8334dd4594c8241429a88b5cd825d VersionId 5hp3sJXKSZLcNwkzKEcs8AXrYuGea3RY; reachability v2 sha256:52887f4e29eab71e92dd0aaec2019f4a5a3f59b8010ad4d4de7f0816559f889a VersionId dnNKI2aUC80gBjlcQWpvjNLGrcmH0fen |
 | `opposed:turtle+turtle` | King+Turtle vs King+Turtle | opposed | — | **DRAW** | — | insufficient material | 0 / 0 / 1 | 0 / 0 / 1 | closed-form draw | — |
-| `opposed:turtle+ghost` | King+Turtle vs King+Ghost | opposed | `kturtlekghost.uftb` | **COMPUTING** | 75,915,840 | information required | — | — | — | The earlier ledger claim was stale: no Turtle transition service was running. Fresh replacement `ultimatefish-info-singleton-fix-v1-kturtlekghost-transitions` is now active on 12 i024 CPUs from empty work, after passing its exact self-test. It binds concrete sha256:40ddd27df10d73efac5e2203dc06c4c9ba1258927a2465ab812c3fb24af49e39, implicit-draw lower theorem sha256:ec27a3cb8babe7c87b0c13229ff51d454da3bed542aa8c27862bfcc630ef26ce, corrected model sha256:a1cbe91616d2192d9a66a4203b807751c9758b05087c7d07afb6ae0436b898ca, and the standard destination observation. Its fail-closed solve promoter is active. |
+| `opposed:turtle+ghost` | King+Turtle vs King+Ghost | opposed | `kturtlekghost.uftb` | **COMPUTING** | 75,915,840 | information required | — | — | — | The singleton-domain-corrected transition rebuild completed successfully over all 492,960 geometries and wrote exact marker sha256:73aa81ca59a6749b75cdf074585fdd077533c588e62e01515abfaa411d5cb3f2. It binds concrete sha256:40ddd27df10d73efac5e2203dc06c4c9ba1258927a2465ab812c3fb24af49e39, implicit-draw lower theorem sha256:ec27a3cb8babe7c87b0c13229ff51d454da3bed542aa8c27862bfcc630ef26ce, corrected model sha256:a1cbe91616d2192d9a66a4203b807751c9758b05087c7d07afb6ae0436b898ca, and observation sha256:890c399d6856fbf1773766f1840d0c38e46669c18b609e20c38d2750a09dbc23. Its i024 promoter verified and reloaded the fresh graph but failed closed at the former physical-memory gate. The immutable source, graph, marker, concrete table, and Ghost sidecar were packaged as sha256:639ff3d1dbf801f10186f0ba1d309be55744b60ce997ef30333ccd0382ef214a (1,140,786,609 bytes), compression-tested, and uploaded to S3 VersionId `4LVdMenVzeoF2ImJKtY.gOmAeUOdQqza`. The first serialized restore passed every pinned SHA but failed before Bellman work because a hard-linked Ghost sidecar made the runner's defensive copy source and destination the same inode. All of that startup evidence remains preserved. Corrected unit `ultimatefish-info-singleton-fix-v1-kturtlekghost-migrated-solve-1b-v5` is active on i03 CPU 22, waiting for Knight/Ghost v7 to release its 170/190-GiB gates; it will create a new solve tree without pre-linking the sidecar, compile the cgroup-aware executable, reverify the exact marker and inputs, and launch the required 1-billion-node `--solve-existing`. Its hash-pinned wrapper is S3 VersionId `dodCy2LLSDo94TPSThEi6u5z_Sy7HRkx`. No obsolete graph or failed solve scratch is reused. |
 | `opposed:turtle+mage` | King+Turtle vs King+Mage | opposed | — | **DRAW** | — | insufficient material | 0 / 0 / 1 | 0 / 0 / 1 | closed-form draw | — |
 | `opposed:turtle+penguin` | King+Turtle vs King+Penguin | opposed | `kturtlekpenguin.uftb` | **CERTIFIED** | 303,663,360 | concrete | 85,838 (2,807,026) / 4,314,716 / 16,987,036 (127,637,064) | 8,233,738 (1,912,312) / 55,292 (468) / 13,898,550 (127,731,320) | 21,387,590 / 130,444,090; 22,187,580 / 129,644,100 | S3 table sha256:642390fcd354587ca70ab3b39dd03f96809c62257a0d901c0f34fdca28bd8199 VersionId 4c9alOxfL6T7Uo7qRDGpbxI9NxHS6aX2; certificate sha256:bb40d14f0efd56df082444947c7389899b690b9f9a5e1732f6d78135b6ffe55b VersionId JkTjlVd7Ro3DAH24abUdMSLeXbTJ2sAq; reachability sha256:4c9a0d50c9f44de7020140297097cecb42d0ad308e5a98f0e6ccfe32f1bb752f VersionId FdgDsw2qcE25i90H1mYD3k9aMTjKmD9Q |
 | `opposed:turtle+parasite` | King+Turtle vs King+Parasite | opposed | `kturtlekparasite.uftb` | **CERTIFIED** | 37,957,920 | concrete | 0 (2,397,164) / 7,602,610 / 8,979,186 | 9,995,776 (3,093,244) / 0 / 5,889,940 | 16,581,796 / 2,397,164; 15,885,716 / 3,093,244 | S3 legacy archive sha256:e296deebc6d0f4ef2c53e14eab86fd1c2bbc9954a6051ffca5ce7b9623b08263 VersionId YTpSbC_DShKsF8QwShKRSIBUVf8PH0VJ; preservation certificate sha256:1232600dfdc1be8be002701245e6523bfde8334dd4594c8241429a88b5cd825d VersionId 5hp3sJXKSZLcNwkzKEcs8AXrYuGea3RY; reachability v2 sha256:52887f4e29eab71e92dd0aaec2019f4a5a3f59b8010ad4d4de7f0816559f889a VersionId dnNKI2aUC80gBjlcQWpvjNLGrcmH0fen |
@@ -720,7 +720,7 @@ Ledger totals: **410 certified**, **0 preserving**, **30 computing**, **34 exact
 | `opposed:ghost+devil` | King+Ghost vs King+Devil | opposed | — | **DEFERRED** | — | concrete | — | — | — | — |
 | `opposed:ghost+sludge` | King+Ghost vs King+Sludge | opposed | — | **DEFERRED** | — | concrete | — | — | — | — |
 | `opposed:ghost+sniper` | King+Ghost vs King+Sniper | opposed | `kghostksniper.uftb` | **COMPUTING** | 303,663,360 | information required | — | — | — | The post-substate-correction graph completed all 64 shards and its authenticated merge over 3,943,680 geometries under source sha256:c9541415922355346dddf284541edb67982b0250316549043bcfbe23efa79e78 and model sha256:69cd2e01bf3286e4de59f8fe2f3b3c8b02aa48268d09e034ee02d9a4b09e0878. The generic v1 wrapper failed closed on a newer source-tree fingerprint; direct v2 omitted the explicit solve mode, and v3 exposed the absent relative singleton-sidecar path. All three startup-only logs are retained and none loaded or modified the graph. Direct exact unit `ultimatefish-info-substate-v1-kghostksniper-solve-1b-v4` is active on high-memory i03 CPU 24 with a fresh scratch/output tree, graph-bound retained binary sha256:52d70a4e2e2d7b18e63ae01a158f3f56301158055398764462f8d5a527219db5, exact singleton-Ghost sidecar sha256:472721217166c8270aa8b68f19645f97cbb84084096f197364289e9d1a7588cb, a 1,000,000,000-node bound, and 48/56 GiB memory gates. No pre-correction graph or checkpoint is reused. |
-| `opposed:ghost+prince` | King+Ghost vs King+Prince | opposed | `kghostkprince.uftb` | **COMPUTING** | 151,831,680 | information required | — | — | — | The first corrected-substate graph fixed the child continuation bug and remains preserved, but its active solve still used the old over-broad singleton verifier. Rather than wait for a likely late failure on adjacent-King padding, fresh unit `ultimatefish-info-singleton-fix-v1-kghostkprince-transitions` now rebuilds from empty work on eight i08 CPUs under source sha256:2858daf3770e0a47230f2d0bf410cd8ce4a9820b0c7cd0895ceab242ae42f65f, singleton-domain-corrected model sha256:a9c480c453ddeb72085a43483dc60484ec24ca017fd365ed60a7c8f3973d8834, observation sha256:890c399d6856fbf1773766f1840d0c38e46669c18b609e20c38d2750a09dbc23, exact lower Prince sha256:7bce11ab717f49e1e2b6e1e0844825139382fe324b2ad88a59b5fc027ba0e6c0/model sha256:5511ac5ac166fd2be042e66a4c849e034fef39da317988f40bf4e6b47e071927, and exact Ghost sidecar sha256:472721217166c8270aa8b68f19645f97cbb84084096f197364289e9d1a7588cb. Its fail-closed promoter waits for a successful exact marker, then stops the old-verifier solve without deleting its graph, scratch, or log and starts `--solve-existing` only on the fresh graph. |
+| `opposed:ghost+prince` | King+Ghost vs King+Prince | opposed | `kghostkprince.uftb` | **COMPUTING** | 151,831,680 | information required | — | — | — | The earlier corrected transition build wrote marker sha256:08de4e98e854832a9449f694a14617ec01bd71e803440fffc5ec77f2ef7a055f, binding source sha256:2858daf3770e0a47230f2d0bf410cd8ce4a9820b0c7cd0895ceab242ae42f65f, corrected model sha256:a9c480c453ddeb72085a43483dc60484ec24ca017fd365ed60a7c8f3973d8834, observation sha256:890c399d6856fbf1773766f1840d0c38e46669c18b609e20c38d2750a09dbc23, exact lower Prince sha256:7bce11ab717f49e1e2b6e1e0844825139382fe324b2ad88a59b5fc027ba0e6c0/model sha256:5511ac5ac166fd2be042e66a4c849e034fef39da317988f40bf4e6b47e071927, and exact Ghost sidecar sha256:472721217166c8270aa8b68f19645f97cbb84084096f197364289e9d1a7588cb. The first promoter carried the deterministic 12-GiB admission cap; another startup retry exposed a prelinked lower-table collision, and semantic checks showed the first solve had patched its merged graph in place. A later remerge attempt was stopped and quarantined when its missing proof logs caused recompilation through hardlinked shard files. No shard or graph from any prior tree is now eligible for reuse. Unit `ultimatefish-info-singleton-fix-v1-kghostkprince-fresh-v6` is active on i08 CPUs 0-7 with 48/56-GiB gates, building every transition shard in a completely independent tree; only after the fresh marker exactly matches the expected binding may it enter the cgroup-aware 1-billion-node `--solve-existing` phase. The audited patched source is S3 VersionId `5ZL5WQCsQEVy6w5gWhA4JbzFqKlzwt9G`; independent-tree wrapper sha256:6dfd2ba81498d0e68475b2f06f495c960a5ac0562a81e4daf941c6d14418f1ca is S3 VersionId `y_t11srOSSuHXdqwip1puSgP2SByqs9o`. All failed trees remain retained as evidence. |
 | `opposed:ghost+checker` | King+Ghost vs King+Checker | opposed | `kghostkchecker.uftb` | **COMPUTING** | 303,663,360 | information required | — | — | — | Fresh corrected-rule hidden-information transition build/merge active on i024 (Checker opposing); the authenticated solve promoter is installed, concrete/lower inputs are version-pinned, and no pre-fix graph or checkpoint is reused. |
 | `opposed:ghost+giant` | King+Ghost vs King+Giant | opposed | `kghostkgiant.uftb` | **CERTIFIED** | 75,915,840 | information v2 | 23,027,424 (3,335,424) / 44,316 / 166,236 (11,384,520) | 40,538 (6,104,934) / 15,510,940 (39,824) / 4,033,270 (12,228,414) | 23,237,976 / 14,719,944; 19,584,748 / 18,373,172 | Exact 59-iteration corrected-rule specialized solve from source sha256:98d084a83f2a8e6c3aa070849028cddbfc6b46181fc083eea86411b675b219b4, normalized source sha256:a541e48414b9dba0808b34b39053fd3a0f95a90ccfc167716c35eb0de81177e0, model sha256:32467999e767ec9bc5c4bfa781f478da3055e334bbf084486a99cbf839a3643f, and observation sha256:890c399d6856fbf1773766f1840d0c38e46669c18b609e20c38d2750a09dbc23. Transition payload sha256:cca876e18013b5d2480fdcd47139c09a84b5af59c99d746bc69afa22ba2f6e0a and arbitrary sidecar sha256:61107912c1c6d33da1338ba467270fdd800beb67b66245ee8fea32e4c01d3a13; Bellman, rank, monotonicity, singleton, compaction-root, structural, grouping, conservation, dual-force, and source-remap residuals are zero. S3 information archive sha256:1c798df4a376745fcb25f4ce590ae18349e9eb878aa98539e480a823beed44e8 VersionId `IJ7.u8DX7IMF3_JrVlGpwUMVcJuFGCh1`; certificate sha256:491795e0aeb7612965f220fc276d02f188dc2a798cd488a07c287e6f0d5e863a VersionId `ZpItq93ijLeslbOkfAI44wo1PK_aTtyN`. HEAD, exact-version download, inventory, local restore, and S3 restore residuals are zero across 70 artifacts; source evidence remains retained. |
 | `opposed:ghost+copycat` | King+Ghost vs King+Copycat | opposed | `kcopycatkghost.uftb` | **COMPUTING** | 151,831,680 | information required | — | — | — | The retained 52-iteration solve failed only at the same dense singleton gate; its graph, scratch, output attempt, and witness diagnostic remain non-certifying evidence. A first corrected launch failed before creating work because it was given the same-orientation Copycat model hash. Corrected v2 `ultimatefish-info-singleton-fix-v1-kcopycatkghost-transitions-v2` is active on 16 i098 CPUs from empty work under source sha256:24236242cb82f0158d827daeaf0762dee9d551532feaaaedc891bbe8576efe50, lower Copycat sha256:98dbd354da959fa923ed9b712c1bde7147f2039a9bcf50306cbdc2a9b3098aeb/model sha256:d94883c4fd100918a23947c3c71d5e461588778aefbbe037f260d48d5083095f, corrected opposing model sha256:b616a690f500af451f869fedecc59ae55b2831f48c305552c94f83a5d631a37c, and the standard destination observation. Its fail-closed v2 solve promoter is installed; no old graph is reused. |
